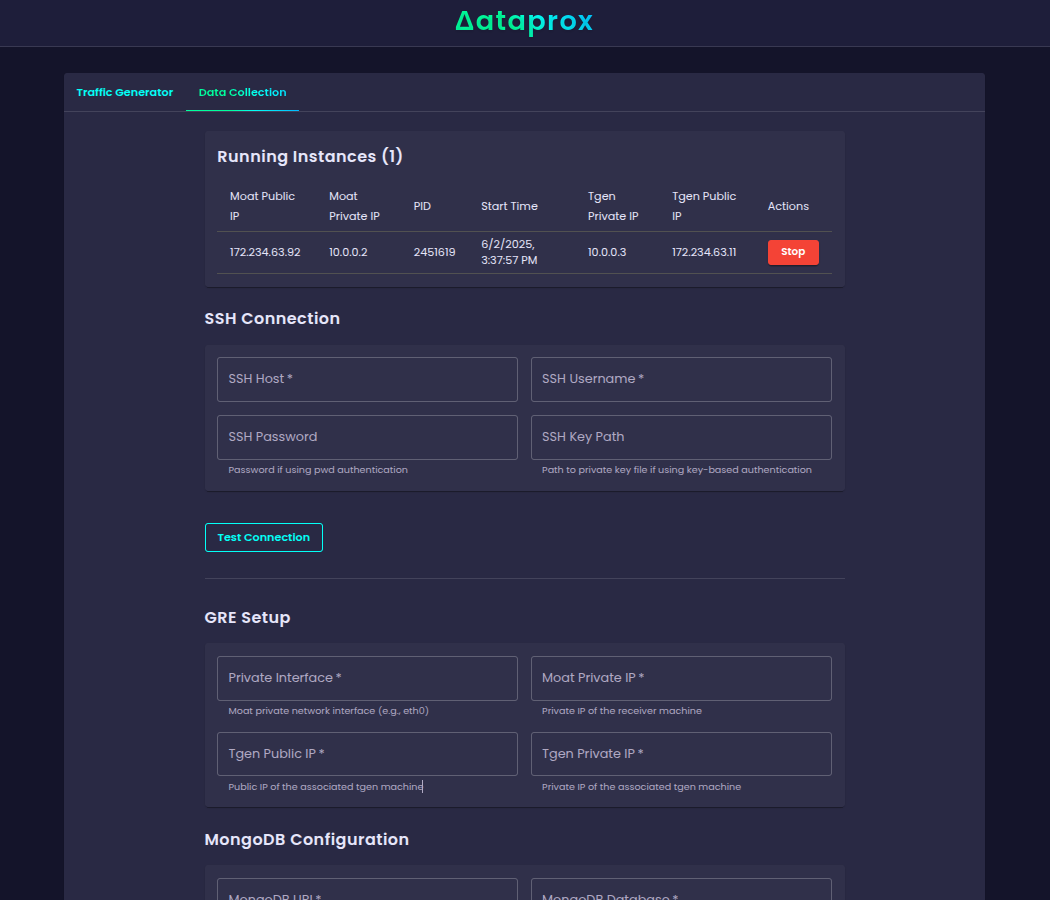
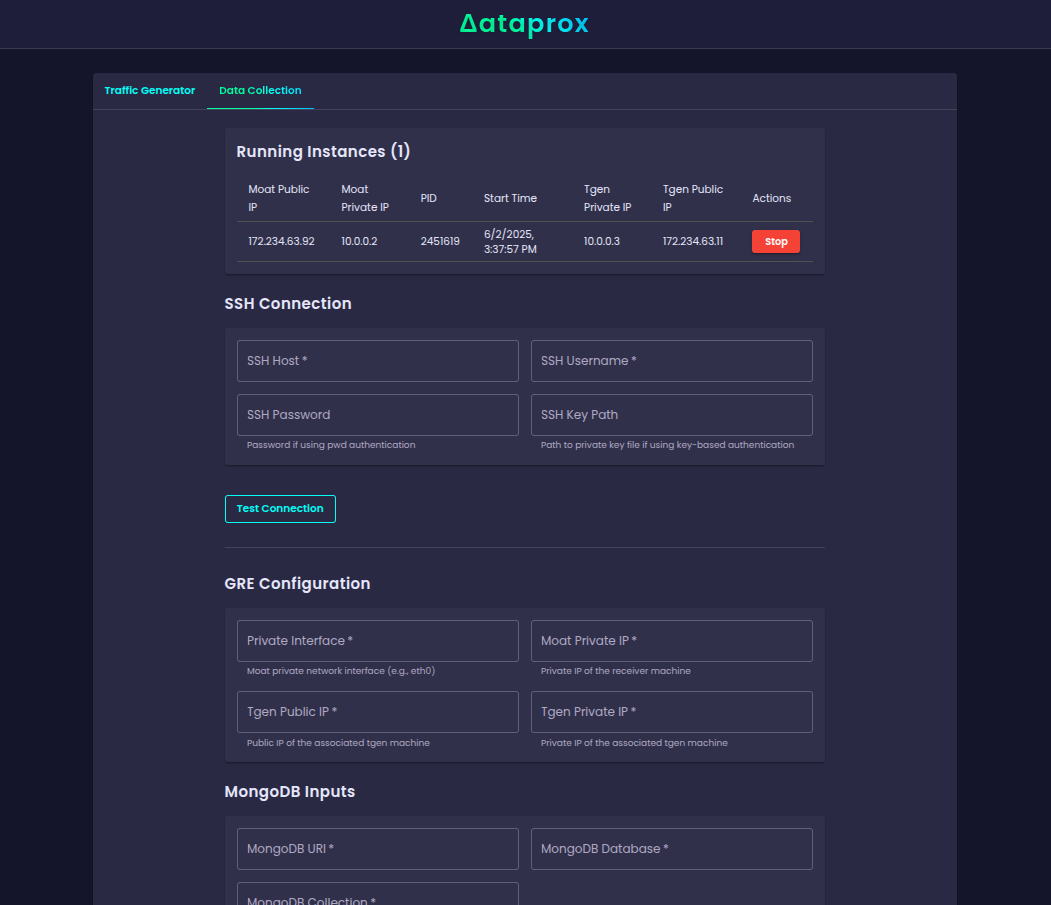
add README

diff --git a/src/components/DataCollection.tsx b/src/components/DataCollection.tsx
@@ -442,7 +442,7 @@ const DataCollection: React.FC<DataCollectionProps> = () => {
       <Divider sx={{ my: 4 }} />
 
       <Typography variant="h6" sx={{ mb: 2, userSelect: 'none' }}>
-        GRE Setup
+        GRE Configuration
       </Typography>
       <Paper sx={{ p: 2, mb: 3, bgcolor: '#252540' }}>
         <Grid container spacing={2}>
@@ -494,7 +494,7 @@ const DataCollection: React.FC<DataCollectionProps> = () => {
       </Paper>
 
       <Typography variant="h6" sx={{ mb: 2, userSelect: 'none' }}>
-        MongoDB Configuration
+        MongoDB Inputs
       </Typography>
       <Paper sx={{ p: 2, mb: 3, bgcolor: '#252540' }}>
         <Grid container spacing={2}>
